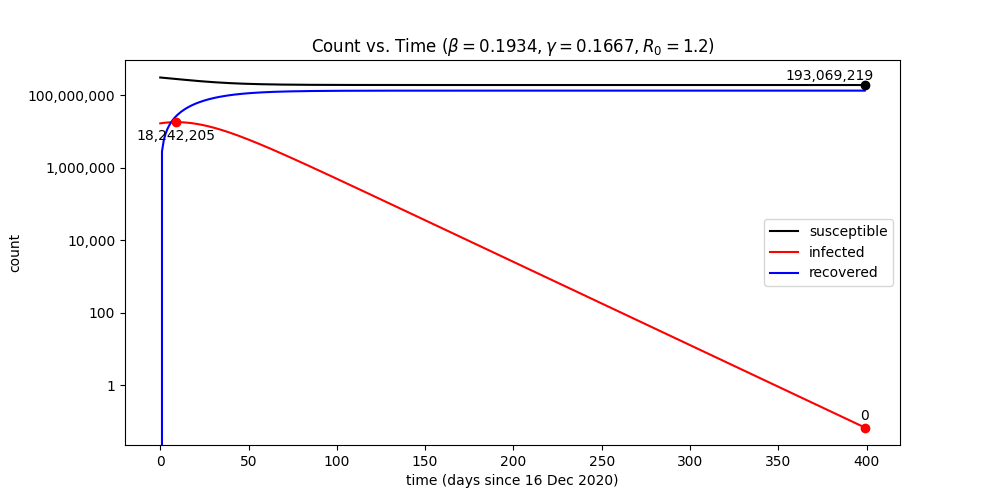
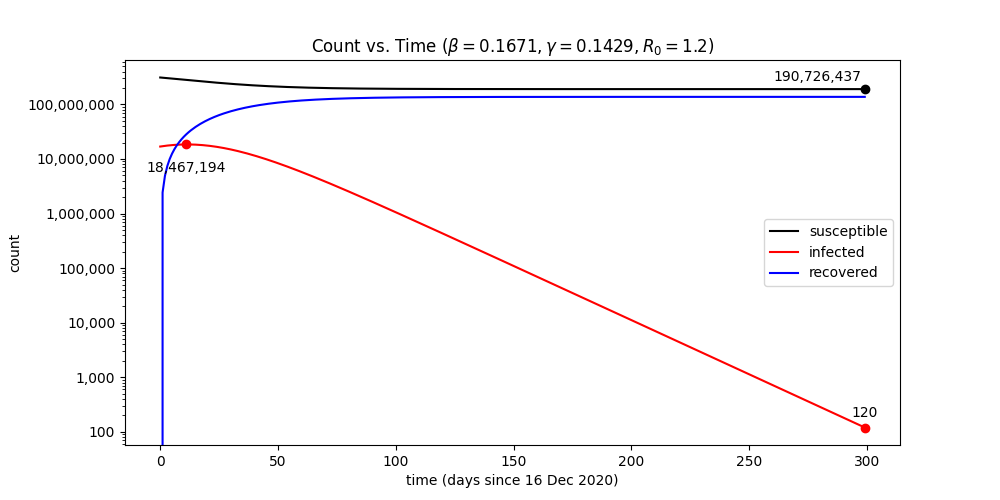
Update recovery rate and projection period

diff --git a/scripts/model.py b/scripts/model.py
@@ -42,9 +42,7 @@ def main():
     }
 
     # Input parameters
-    # recovery_rate = 1 / 19.6
-    recovery_rate = 1 / 6
-    # recovery_rate = 1 / 4
+    recovery_rate = 1 / 7
 
     # Solver
     estimated_infection_rate = solver(
@@ -60,7 +58,7 @@ def main():
     project(
         population=total_us_population,
         initial=initial,
-        days=400,
+        days=300,
         infection_rate=estimated_infection_rate,
         recovery_rate=recovery_rate,
         start_date=start_date,
